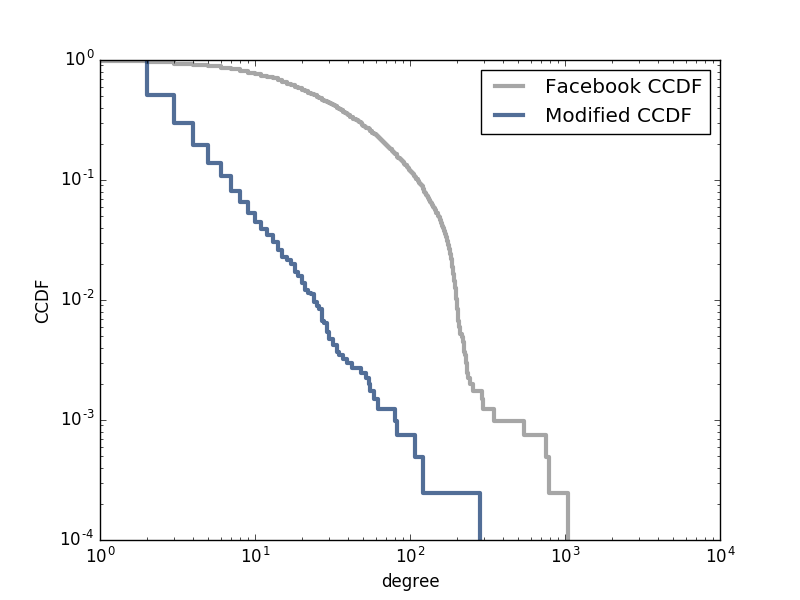
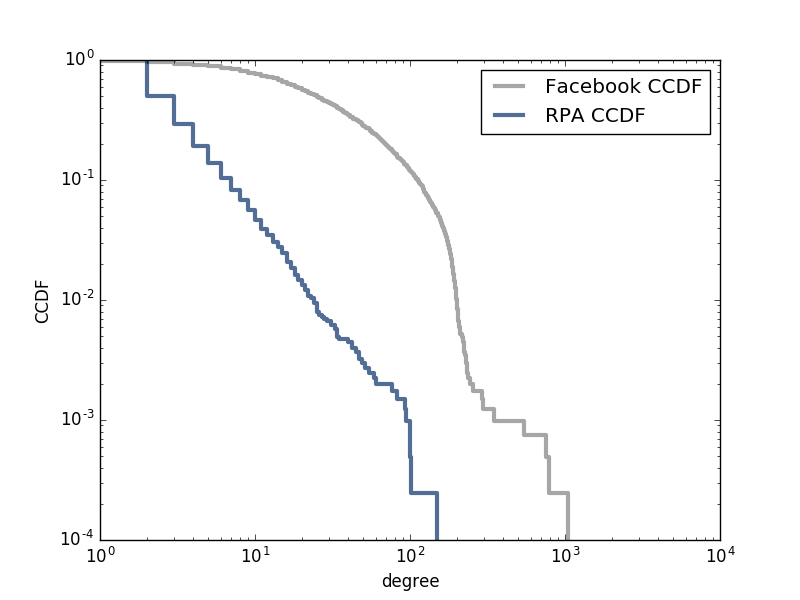
Updating figures with RPA (instead of modification)

diff --git a/code/modification.py b/code/modification.py
@@ -108,7 +108,7 @@ def generate_pmf(fb, hk):
 
     thinkplot.plot([6, 150], [5e-1, 2e-4], color='gray', linestyle='dashed')
 
-    thinkplot.Pdf(pmf_hk, style='.', label='Modified graph')
+    thinkplot.Pdf(pmf_hk, style='.', label='RPA')
     thinkplot.config(xscale='log', yscale='log',
       xlabel='degree', ylabel='PMF')
 
@@ -119,7 +119,7 @@ def generate_cdf(fb, hk):
     cdf_hk = Cdf(degrees(hk))
 
     thinkplot.Cdf(cdf_fb, color='gray', label="Facebook CDF")
-    thinkplot.Cdf(cdf_hk, label='Modified CDF')
+    thinkplot.Cdf(cdf_hk, label='RPA CDF')
     thinkplot.config(xlabel='degree', xscale='log',
                  ylabel='CDF')
 
@@ -130,7 +130,7 @@ def generate_ccdf(fb, hk):
     cdf_hk = Cdf(degrees(hk))
 
     thinkplot.Cdf(cdf_fb, label='Facebook CCDF', color='gray', complement=True)
-    thinkplot.Cdf(cdf_hk, label="Modified CCDF", complement=True)
+    thinkplot.Cdf(cdf_hk, label="RPA CCDF", complement=True)
     thinkplot.config(xlabel='degree', xscale='log',
                  ylabel='CCDF', yscale='log')
 

diff --git a/code/replication.py b/code/replication.py
@@ -199,7 +199,7 @@ def main():
 
     hk = hk_graph(n, k, 1)
 
-    # generate_pmf(fb, hk)
+    generate_pmf(fb, hk)
     # generate_cdf(fb, hk)
     # generate_ccdf(fb, hk)
 
